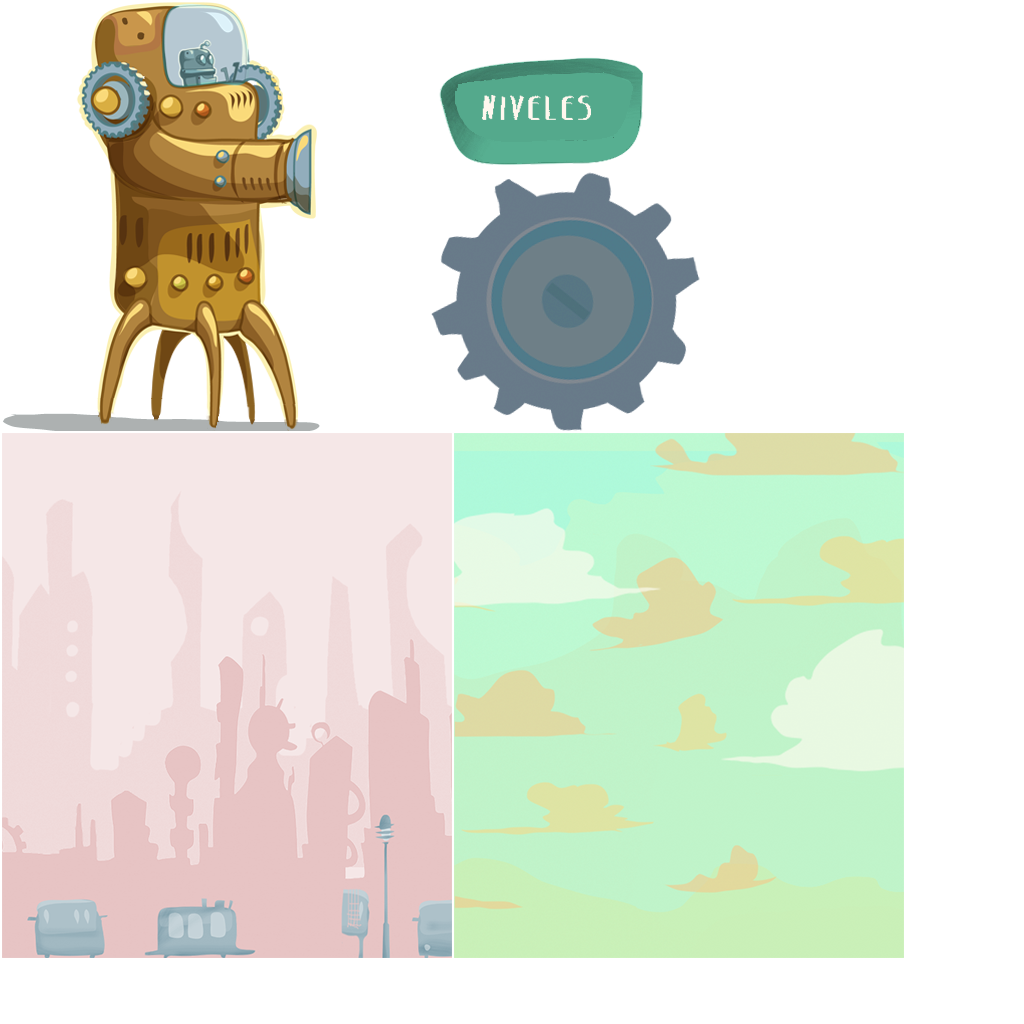
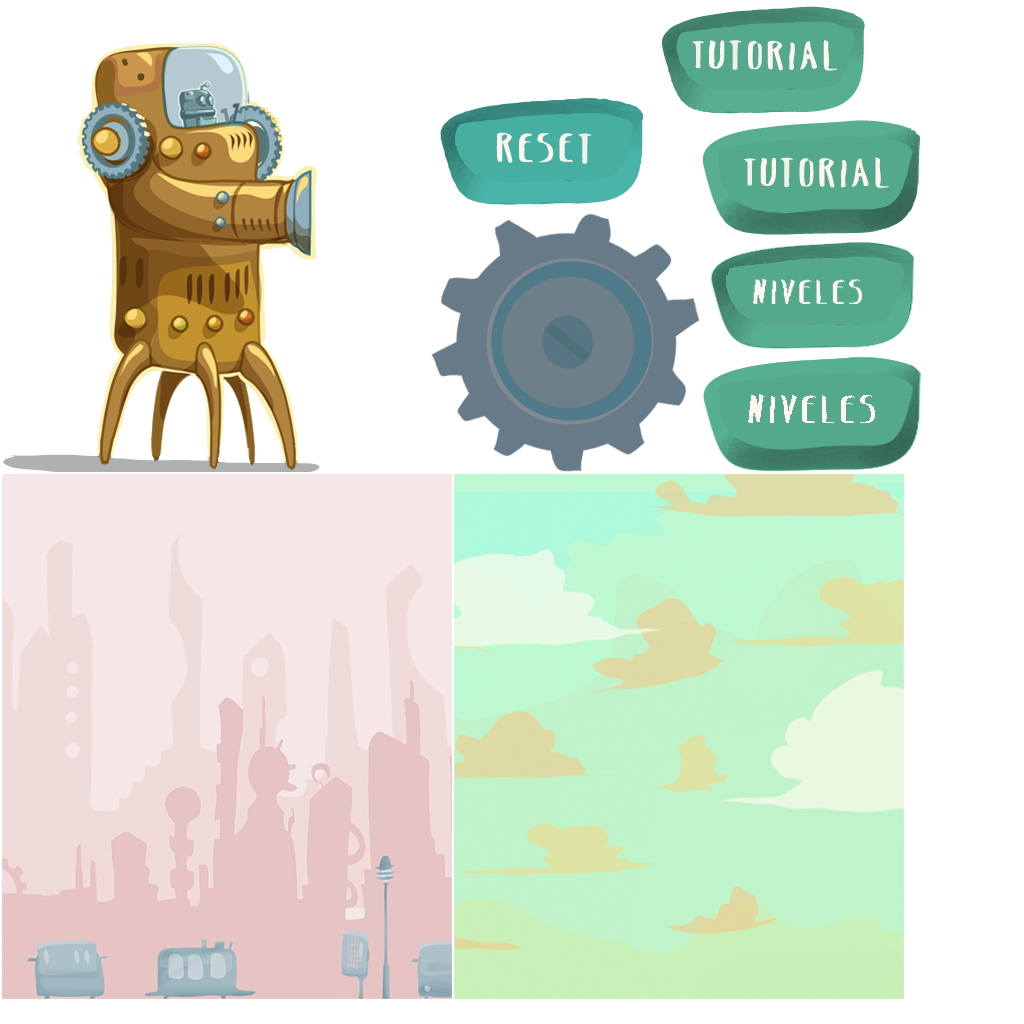
add reset and tutorial, delete debug

diff --git a/core/src/main/java/ceta/game/screens/EmergencyScreen.java b/core/src/main/java/ceta/game/screens/EmergencyScreen.java
@@ -20,8 +20,8 @@ import com.badlogic.gdx.utils.viewport.FitViewport;
  */
 public class EmergencyScreen extends AbstractGameScreen  {
     private static final String TAG = EmergencyScreen.class.getName();
-    private TextField txtLastLevel,txtLastScore, txtTopCodeFValue, txtRepeat;
-    private CheckBox chkUseDebug;
+    private TextField txtLastLevel,txtLastScore, txtRepeat;
+    // private CheckBox chkUseDebug; also out txtTopCodeFValue
     private Skin skin;
     private ImageButton btnPlay;
     private int goToLevel = 1;
@@ -69,22 +69,20 @@ public class EmergencyScreen extends AbstractGameScreen  {
         txtRepeat.setPosition(230, 630);
         stage.addActor(txtRepeat);
 
-        txtTopCodeFValue= new TextField("",skin);
-        txtTopCodeFValue.setMessageText("FValue");
-        txtTopCodeFValue.setText(String.valueOf(fvalue));
-        txtTopCodeFValue.setPosition(230, 530);
-        stage.addActor(txtTopCodeFValue);
+//        txtTopCodeFValue= new TextField("",skin);
+//        txtTopCodeFValue.setMessageText("FValue");
+//        txtTopCodeFValue.setText(String.valueOf(fvalue));
+//        txtTopCodeFValue.setPosition(230, 530);
+//        stage.addActor(txtTopCodeFValue);
+//
+//        chkUseDebug = new CheckBox("Use debug", skin);
+//        chkUseDebug.setPosition(230,430);
+//        chkUseDebug.setChecked(GamePreferences.instance.getUseDebug());
+//        stage.addActor(chkUseDebug);
 
-        chkUseDebug = new CheckBox("Use debug", skin);
-        chkUseDebug.setPosition(230,430);
-        chkUseDebug.setChecked(GamePreferences.instance.getUseDebug());
-        stage.addActor(chkUseDebug);
-//        tbl.add(new Label("Use Monochrome Shader", skinLibgdx));
-//        tbl.add(chkUseMonoChromeShader);
-//        tbl.row();
-        
+
         btnPlay = new ImageButton(Assets.instance.buttons.playButtonStyle);
-        btnPlay.setPosition(230,230);
+        btnPlay.setPosition(230,430);
         btnPlay.addListener(new ChangeListener() {
             @Override
             public void changed (ChangeEvent event, Actor actor) {
@@ -128,7 +126,7 @@ public class EmergencyScreen extends AbstractGameScreen  {
             }
 
         } catch (Exception e) {
-                e.printStackTrace();
+            e.printStackTrace();
         }
 
         try {
@@ -139,25 +137,25 @@ public class EmergencyScreen extends AbstractGameScreen  {
         } catch (Exception e) {
             e.printStackTrace();
         }
-        
-        try {
-            if(!txtTopCodeFValue.getText().equals("")) {
-                fvalue = Float.parseFloat(txtTopCodeFValue.getText());
-            }
 
-        } catch (Exception e) {
-            Gdx.app.log(TAG,"fvalue "+fvalue);
-                e.printStackTrace();
-        }
+//        try {
+//            if(!txtTopCodeFValue.getText().equals("")) {
+//                fvalue = Float.parseFloat(txtTopCodeFValue.getText());
+//            }
+//
+//        } catch (Exception e) {
+//            Gdx.app.log(TAG,"fvalue "+fvalue);
+//                e.printStackTrace();
+//        }
 
 
-        
+
         game.levelsManager.forceLevel(goToLevel);
-                
+
         GamePreferences.instance.forceGlobalScore(lastScore);
         GamePreferences.instance.forceRepeatNr(repeat );
-        GamePreferences.instance.setFvalue(fvalue);
-        GamePreferences.instance.setUseDebug(chkUseDebug.isChecked());
+//        GamePreferences.instance.setFvalue(fvalue);
+//        GamePreferences.instance.setUseDebug(chkUseDebug.isChecked());
         game.levelsManager.goToFirstUncompletedLevel(true);
 
 

diff --git a/core/src/main/java/ceta/game/game/Assets.java b/core/src/main/java/ceta/game/game/Assets.java
@@ -455,27 +455,39 @@ public class Assets implements Disposable, AssetErrorListener {
         public final ImageButton.ImageButtonStyle levelsButtonStyle;
         public final ImageButton.ImageButtonStyle exitButtonStyle;
         public final ImageButton.ImageButtonStyle understoodButtonStyle;
+        public final ImageButton.ImageButtonStyle resetButtonStyle, tutorialButtonStyle;
+
 
         public  AssetButtons(TextureAtlas atlas) {
-            playButtonStyle = new ImageButton.ImageButtonStyle();  //Instaciate
+            playButtonStyle = new ImageButton.ImageButtonStyle();
             playButtonStyle.up = new TextureRegionDrawable(atlas.findRegion("jugar-1")); //Set image for not pressed button
             playButtonStyle.down= new TextureRegionDrawable(atlas.findRegion("jugar-2"));  //Set image for pressed
             playButtonStyle.over= new TextureRegionDrawable(atlas.findRegion("jugar-2"));
 
-            levelsButtonStyle = new ImageButton.ImageButtonStyle();  //Instaciate
+            levelsButtonStyle = new ImageButton.ImageButtonStyle();
             levelsButtonStyle.up = new TextureRegionDrawable(atlas.findRegion("niveles-1")); //Set image for not pressed button
             levelsButtonStyle.down= new TextureRegionDrawable(atlas.findRegion("niveles-2"));  //Set image for pressed
             levelsButtonStyle.over= new TextureRegionDrawable(atlas.findRegion("niveles-2"));
 
-            exitButtonStyle = new ImageButton.ImageButtonStyle();  //Instaciate
+            exitButtonStyle = new ImageButton.ImageButtonStyle();
             exitButtonStyle.up = new TextureRegionDrawable(atlas.findRegion("salir-1")); //Set image for not pressed button
             exitButtonStyle.down= new TextureRegionDrawable(atlas.findRegion("salir-2"));  //Set image for pressed
             exitButtonStyle.over= new TextureRegionDrawable(atlas.findRegion("salir-2"));
 
-            understoodButtonStyle = new ImageButton.ImageButtonStyle();  //Instaciate
+            understoodButtonStyle = new ImageButton.ImageButtonStyle();
             understoodButtonStyle.up = new TextureRegionDrawable(atlas.findRegion("entendido-1")); //Set image for not pressed button
             understoodButtonStyle.down= new TextureRegionDrawable(atlas.findRegion("entendido-2"));  //Set image for pressed
             understoodButtonStyle.over= new TextureRegionDrawable(atlas.findRegion("entendido-2"));
+
+            resetButtonStyle = new ImageButton.ImageButtonStyle();
+            resetButtonStyle.up = new TextureRegionDrawable(atlas.findRegion("reset-1")); //Set image for not pressed button
+            resetButtonStyle.down= new TextureRegionDrawable(atlas.findRegion("reset-2"));  //Set image for pressed
+            resetButtonStyle.over= new TextureRegionDrawable(atlas.findRegion("reset-2"));
+
+            tutorialButtonStyle = new ImageButton.ImageButtonStyle();
+            tutorialButtonStyle.up = new TextureRegionDrawable(atlas.findRegion("tutorial-1")); //Set image for not pressed button
+            tutorialButtonStyle.down= new TextureRegionDrawable(atlas.findRegion("tutorial-2"));  //Set image for pressed
+            tutorialButtonStyle.over= new TextureRegionDrawable(atlas.findRegion("tutorial-2"));
 
         }
 

diff --git a/core/src/main/java/ceta/game/screens/SimpleMenuScreen.java b/core/src/main/java/ceta/game/screens/SimpleMenuScreen.java
@@ -1,6 +1,7 @@
 package ceta.game.screens;
 
 import ceta.game.game.Assets;
+import ceta.game.transitions.ScreenTransitionFade;
 import ceta.game.util.Constants;
 import com.badlogic.gdx.Gdx;
 import com.badlogic.gdx.InputProcessor;
@@ -20,7 +21,7 @@ import com.badlogic.gdx.utils.viewport.FitViewport;
 public class SimpleMenuScreen extends AbstractGameScreen {
     private static final String TAG = SimpleMenuScreen.class.getName();
     private Image imgBackground;
-    private ImageButton btnMenuPlay, btnMenuExit;
+    private ImageButton btnMenuPlay, btnMenuExit, btnMenuReset, btnMenuTutorial;
 
 
     public SimpleMenuScreen(DirectedGame game) {
@@ -109,16 +110,27 @@ public class SimpleMenuScreen extends AbstractGameScreen {
             }
         });
         layer.row();
-        // + Levels Button
-//        btnLevels = new ImageButton(Assets.instance.buttons.levelsButtonStyle);
-//        layer.add(btnLevels).size(110,60).padBottom(10);
-//        btnLevels.addListener(new ChangeListener() {
-//            @Override
-//            public void changed (ChangeEvent event, Actor actor) {
-//                onLevelsClicked();
-//            }
-//        });
-//        layer.row();
+        // + Reset Button
+        btnMenuReset = new ImageButton(Assets.instance.buttons.resetButtonStyle);
+        layer.add(btnMenuReset).size(110,60).padBottom(10);
+        btnMenuReset.addListener(new ChangeListener() {
+            @Override
+            public void changed (ChangeEvent event, Actor actor) {
+                onResetClicked();
+            }
+        });
+        layer.row();
+        // + Tutorial Button
+        btnMenuTutorial = new ImageButton(Assets.instance.buttons.tutorialButtonStyle);
+        layer.add(btnMenuTutorial).size(110,60).padBottom(10);
+        btnMenuTutorial.addListener(new ChangeListener() {
+            @Override
+            public void changed (ChangeEvent event, Actor actor) {
+                onTutorialClicked();
+            }
+        });
+        layer.row();
+
         // + Exit Button
         btnMenuExit = new ImageButton(Assets.instance.buttons.exitButtonStyle);
         layer.add(btnMenuExit).size(45,55).padBottom(10);
@@ -143,6 +155,16 @@ public class SimpleMenuScreen extends AbstractGameScreen {
 
     private void onExitClicked () {
         Gdx.app.exit();
+    }
+
+    private void onResetClicked(){
+        game.getLevelsManager().forceLevel(1);
+        game.getLevelsManager().goToFirstUncompletedLevel(true);
+    }
+
+    private void onTutorialClicked(){
+        game.setScreen(new TutorialScreen(game), ScreenTransitionFade.init(1));
+
     }
 
 }
